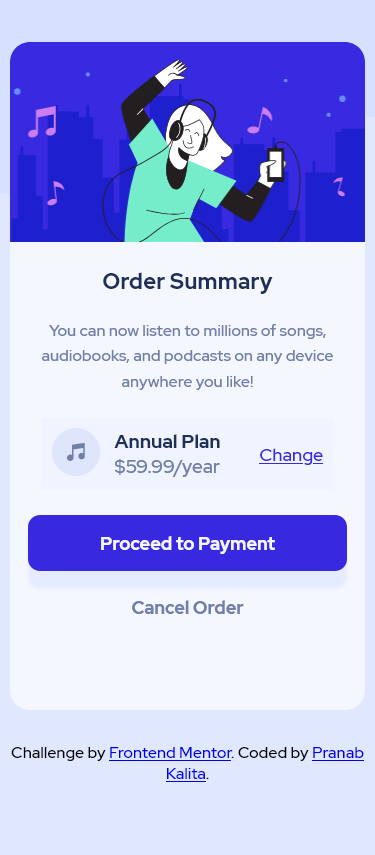
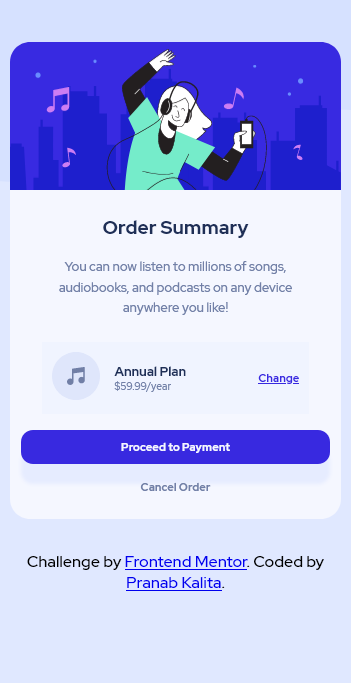
Fixed card content overflow problem

Changed region(s): [[0.0285, 0.0307, 0.9972, 0.4612], [0.057, 0.4919, 0.9402, 0.7379], [0.0285, 0.7994, 0.9687, 0.9224]]

diff --git a/style.css b/style.css
@@ -28,7 +28,7 @@ body {
 
 .card {
     width: 100%;
-    height: 100%;
+    height: 72%;
     margin: 2em auto;
     display: flex;
     flex-direction: column;
@@ -39,6 +39,7 @@ body {
 .img-container {
     width: 100%;
     height: 100%;
+    flex: 1;
     background: url(images/illustration-hero.svg);
     background-size: cover;
     background-position: center;
@@ -126,7 +127,7 @@ body {
     }
 
     .card {
-        width: fit-content;
+        width: 100%;
         height: 100%;
         margin: 1em 10em;
     }
@@ -150,7 +151,7 @@ body {
 
 @media screen and (min-width: 1000px) {
     .card {
-        width: fit-content;
+        width: 45%;
         height: 100%;
         margin: 1em 15em;
     }
@@ -159,6 +160,19 @@ body {
         width: 100%;
         height: 100%;
     }
+
+    .text-container p {
+        margin: 0em 3em;
+    }
+
+    .plan-section {
+      margin: 0.9em 3em;
+    }
+
+    .proceed-btn {
+        margin: 0.9em 3em;
+    }
+    
 }
 
 @media screen and (min-width: 1300px) {
